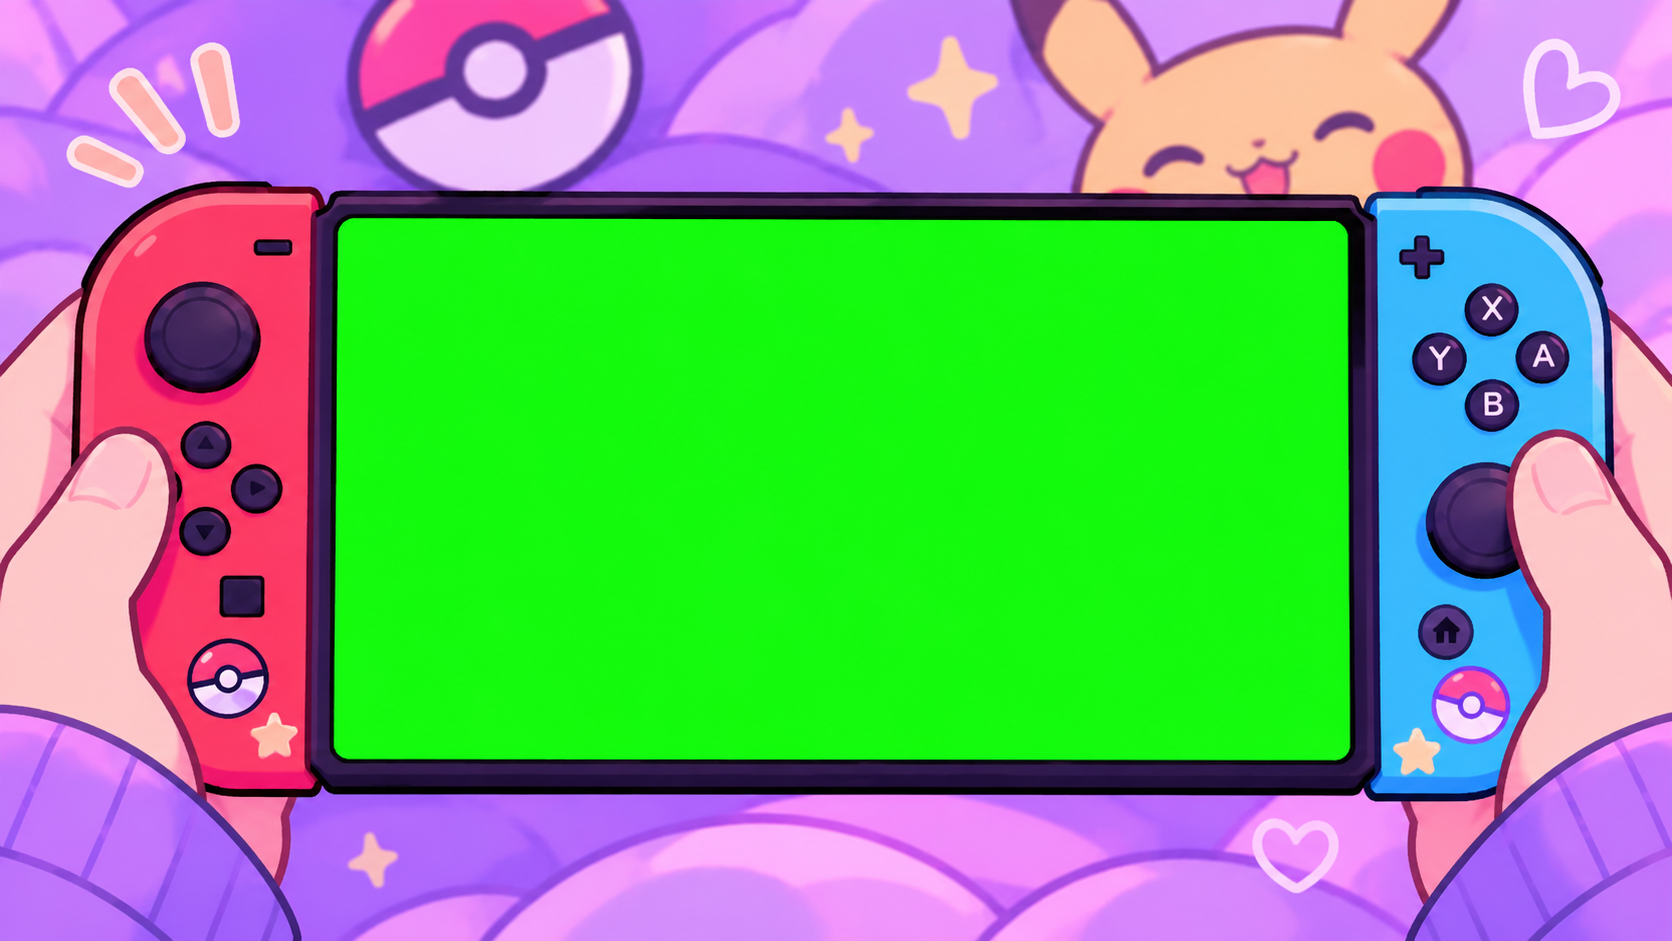
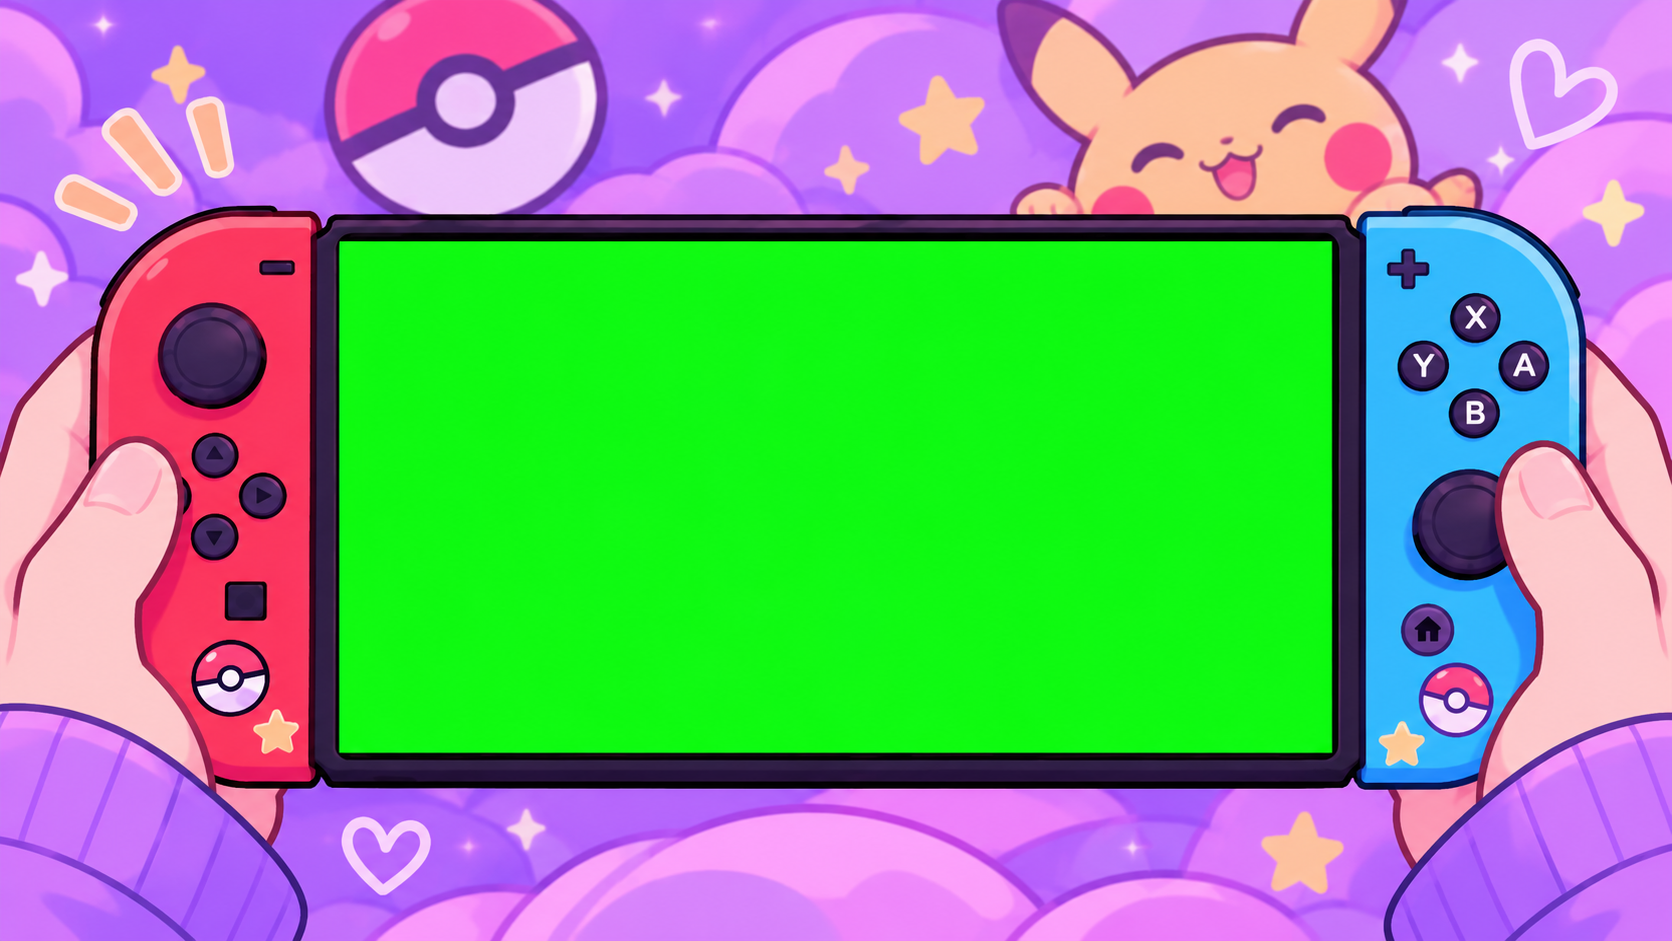
feat(3-Arrival): re-align Switch screen slot and cutout for updated background

diff --git a/3-Arrival/index.html b/3-Arrival/index.html
@@ -9,7 +9,7 @@
 
     <title>3-Arrival : Onix Snake & Scorbunnies (Switch Edition)</title>
 
-    <link rel="stylesheet" type="text/css" href="style.css?v=3.5">
+    <link rel="stylesheet" type="text/css" href="style.css?v=3.6">
 
     <script src="libraries/p5.min.js"></script>
     <script src="libraries/p5.sound.min.js"></script>
@@ -27,7 +27,7 @@
   <body>
     <div id="switch-stage">
       <div id="game-screen-slot"></div>
-      <img id="switch-overlay" src="../ressources/switch_frame.png?v=3.5" alt="Console Switch" draggable="false" />
+      <img id="switch-overlay" src="../ressources/switch_frame.png?v=3.6" alt="Console Switch" draggable="false" />
     </div>
   </body>
 </html>

diff --git a/3-Arrival/style.css b/3-Arrival/style.css
@@ -24,10 +24,10 @@ html, body {
 /* Zone d'écran de la console (alignée exactement sur l'écran vert découpé) */
 #game-screen-slot {
   position: absolute;
-  left: 19.80%;
-  top: 22.85%;
-  width: 61.06%;
-  height: 58.13%;
+  left: 20.10%;
+  top: 25.29%;
+  width: 59.69%;
+  height: 54.94%;
   overflow: hidden;
   z-index: 1;
   background: #0a0c16 url('../ressources/background.gif') center/cover no-repeat;

diff --git a/README.md b/README.md
@@ -5,7 +5,7 @@ Ce projet rassemble une suite d'applications, d'exercices et de simulations inte
 L'article original est consultable dans le dossier :
 `article craig reynolds/Steering Behaviors For Autonomous Characters.pdf`
 
-<!-- START:LAST_UPDATED --> *Dernière actualisation automatique : 2026-11-24 14:41:45 UTC* <!-- END:LAST_UPDATED -->
+<!-- START:LAST_UPDATED --> *Dernière actualisation automatique : 2026-11-24 14:50:55 UTC* <!-- END:LAST_UPDATED -->
 
 ---
 
